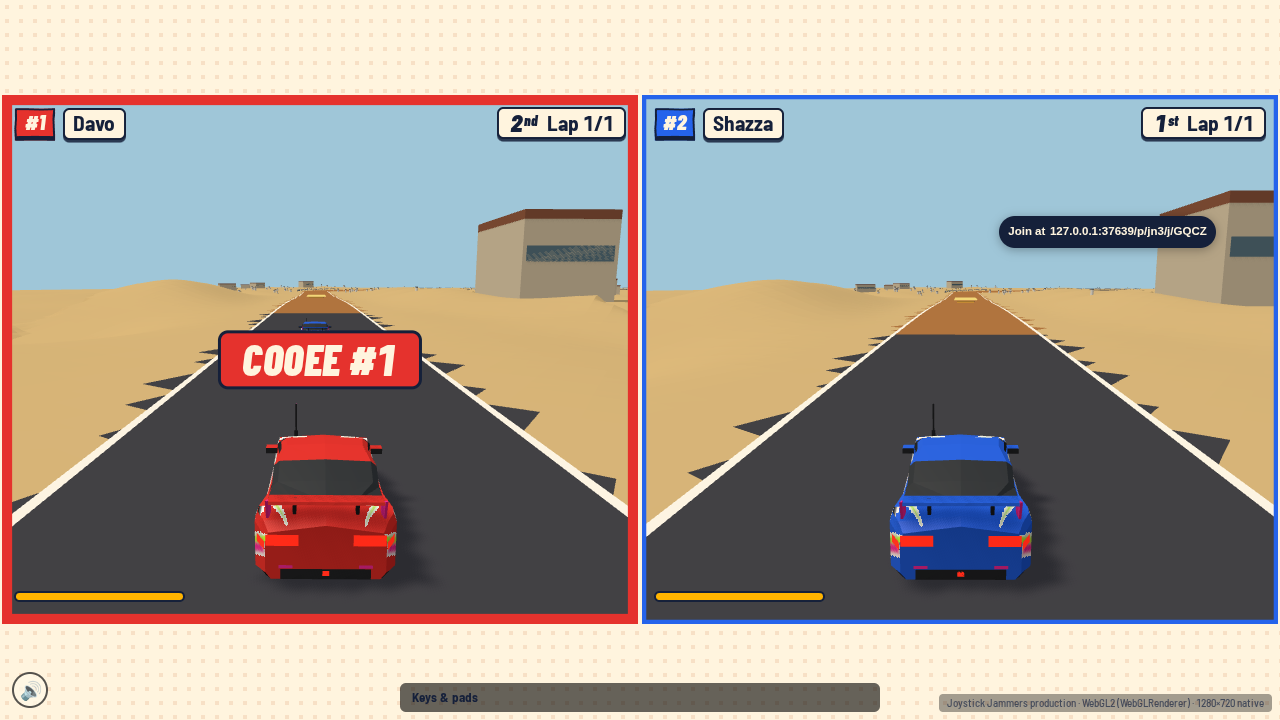
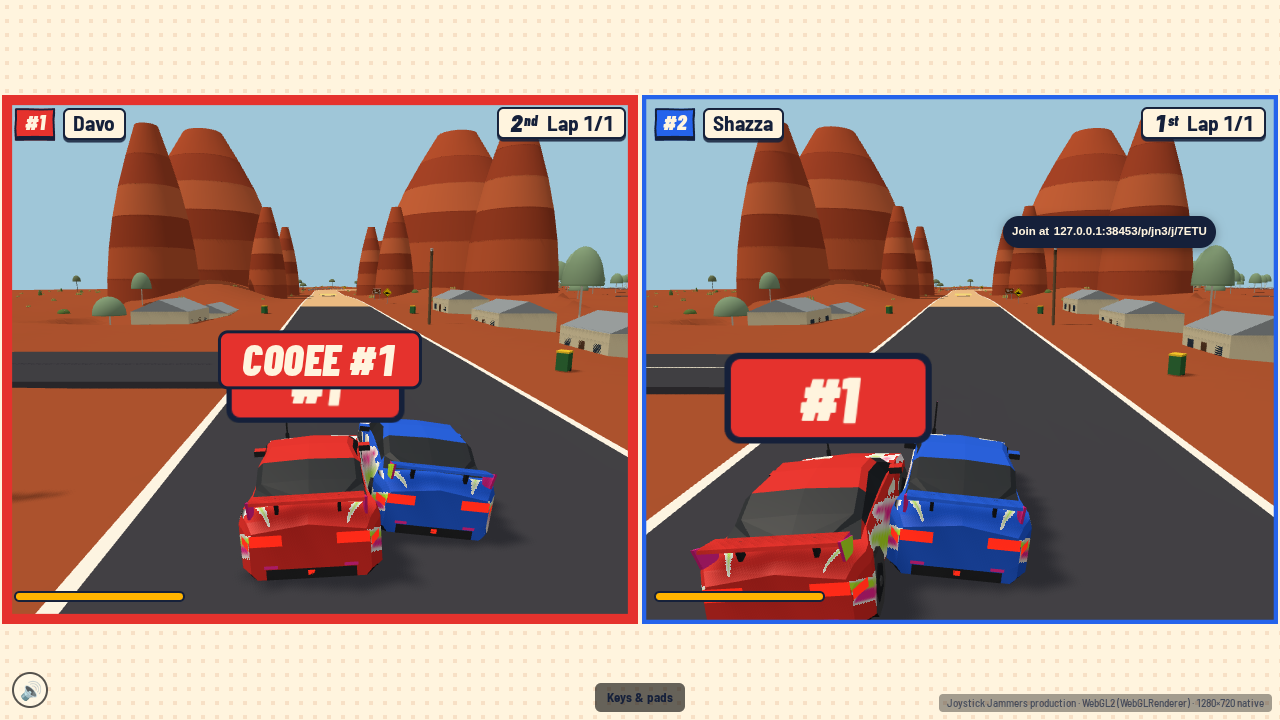
P1-R06 (br-p1-r06-hvb): identify-24 and identify-108 captures and the self-review

diff --git a/docs/evidence/P1-R06/self-review.md b/docs/evidence/P1-R06/self-review.md
@@ -1,0 +1,43 @@
+# P1-R06 visual self-review
+
+Builds: `v0.2-revamp` at 3dc4771 (`identify-24.png`, `identify-108.png`: `web/tests/journeys/r06-identify.test.mjs`,
+run `r06-k`) and 8c1851e (`tv-identify.png`, JN3 run `r06-i`). Both on eris: Linux, Playwright Chromium headless, the
+host drawing through ANGLE Vulkan on the RTX 2080 Super (`JJ_CHROMIUM_GPU=1`). TV 1920x1080 (R06 journey) and
+1280x720 (JN3). Cohorts: two phones over loopback WebRTC (JN3); 24 then 120 synthetic controllers fed through the
+host's test surface as the same controller frames a phone sends (R06 journey).
+
+Press-to-visible (phone's Identify press → the TV pulse up, wall clock on one machine, loopback WebRTC, five presses
+3.3 s apart): GPU host 2-9 ms (`identify-gpu.json`); SwiftShader host 209-233 ms (`identify-swiftshader.json`), where
+each host frame takes ~150 ms. The LAN measurement is a P1-Q02 checklist row.
+
+## Looked at
+
+- `tv-identify.png`: Davo's tile pulses with a thick red border and "Cooee #1" in its upper third; "#1" floats over
+  his car in his tile and in Shazza's; Shazza's tile keeps its blue border.
+- `identify-24.png`: 24 tiles; only #7's tile carries the pulse and "Cooee #7"; "#7" floats over the black car in
+  #7's and every other tile that sees it (#8, #9, #10, #17, #18, #19, #20 …); every tile has its seat-coloured border.
+- `identify-108.png`: 120 tiles (compact HUD: badge, place and lap); #108's tile (bottom-right block) shows
+  "Cooee #108" inside the tile; "#108" floats over the car in the tiles behind it, sized to fit three digits.
+
+## Defects found and fixed
+
+- Tiles lost their seat-coloured border after any reflow, and the pulse and label had no colour: placing the HUD
+  rewrote its inline style and dropped `--seat`; it goes back on every paint.
+- The Cooee label sat over the number above the car: moved to the tile's upper third.
+- At 120 tiles "Cooee #108" overflowed its tile: it scales with the tile's width.
+- The label text used paper on every colour (unreadable on yellow or white seats): it uses the seat's "on" ink.
+- JN3's presses were 1.8 s apart and the host allows one Identify per 3 s per seat (master §5.2): 3.3 s apart.
+
+## Remaining defects
+
+- On very small tiles (120 at 1080p) the Cooee label covers the tile's own badge row.
+- The mark over the car is a flat billboard drawn over everything; it doesn't outline the car's silhouette.
+- The phone's menu has no Identify entry (the phone's Identify is the button in its tools row).
+
+## Not covered
+
+- Real phones, a real TV and a LAN: Chromium contexts on one Linux box.
+- A pad's View/Select and a key cluster's Identify key reach the same `SimEvent::Identify` path (P1-C05's input
+  tests); this review didn't capture them.
+- Phone side of the flash: the controller's own flash is P1-C02/C03's (`phone-landscape-844x390-identify-flash` in
+  JN1's captures).
